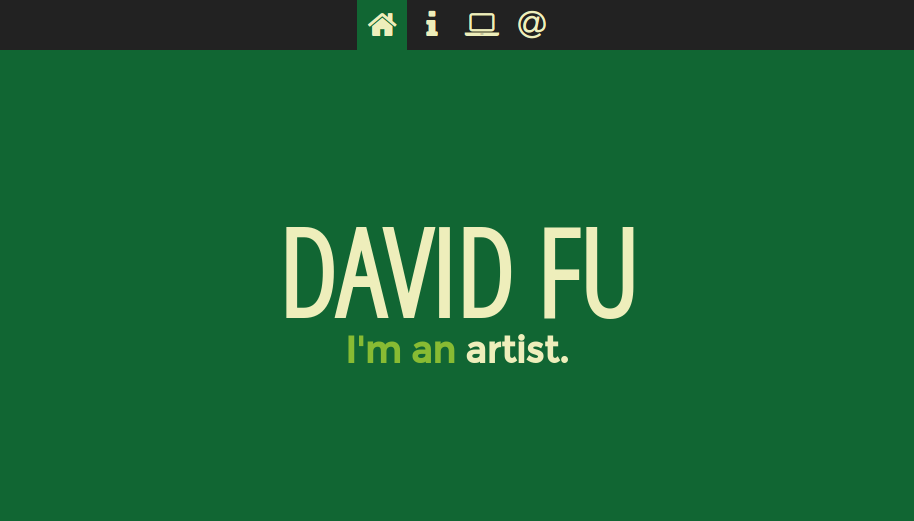
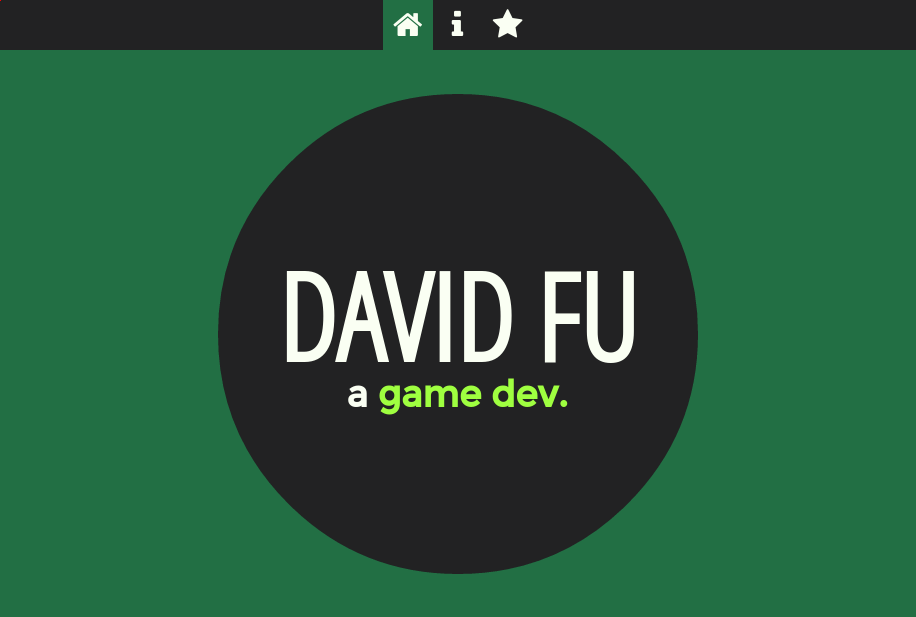
filter param

diff --git a/scripts/main.js b/scripts/main.js
@@ -12,7 +12,7 @@ var $filterList = document.getElementById('filter-list')
 // globals
 var projectWidth = 320,
 	factWidth = 220,
-	filter = 'all'
+	filter = 'all';
 
 // on ready
 $(document).ready(function () {
@@ -55,8 +55,10 @@ $(document).ready(function () {
 });
 
 function fitItems() {
-	$projectList.style.width = Math.floor($(window).width() / projectWidth) * projectWidth + 'px';
-	for (var i = factWidth, maxWidth = $(window).width(); i < maxWidth && i <= factWidth * 4; i *= 2) {
+	var windowWidth = $(window).width(),
+		maxProjectWidth = Math.max(windowWidth - 100, 320);
+	$projectList.style.width = Math.floor(maxProjectWidth / projectWidth) * projectWidth + 'px';
+	for (var i = factWidth; i < windowWidth && i <= factWidth * 4; i *= 2) {
 		$factList.style.width = i + 'px';
 	}
 }
@@ -80,6 +82,16 @@ function scrolling() {
 		// 	scrollTop: getTop(index),
 		// }, 500);
 	});
+
+	var filterParam = document.location.search;
+	if (filterParam) {
+		filterParam = filterParam.substring(1);
+		if (['art', 'code', 'game', 'all'].indexOf(filterParam) >= 0) {
+			document.getElementById('project-button').click();
+			filter = filterParam;
+			filterProjects();
+		}
+	}
 
 	function scroll() {
 		var windowY = window.pageYOffset,

diff --git a/index.html b/index.html
@@ -16,7 +16,7 @@
 		<div class="nav-container">
 			<div class="nav-item title" data-scroll-nav="0"><i class="fa fa-2x fa-home"></i>
 			</div><div class="nav-item about" data-scroll-nav="1"><i class="fa fa-2x fa-info"></i>
-			</div><div class="nav-item projects" data-scroll-nav="2"><i class="fa fa-2x fa-star"></i>
+			</div><div class="nav-item projects" data-scroll-nav="2" id="project-button"><i class="fa fa-2x fa-star"></i>
 			</div>
 		</div>
 	</nav>
